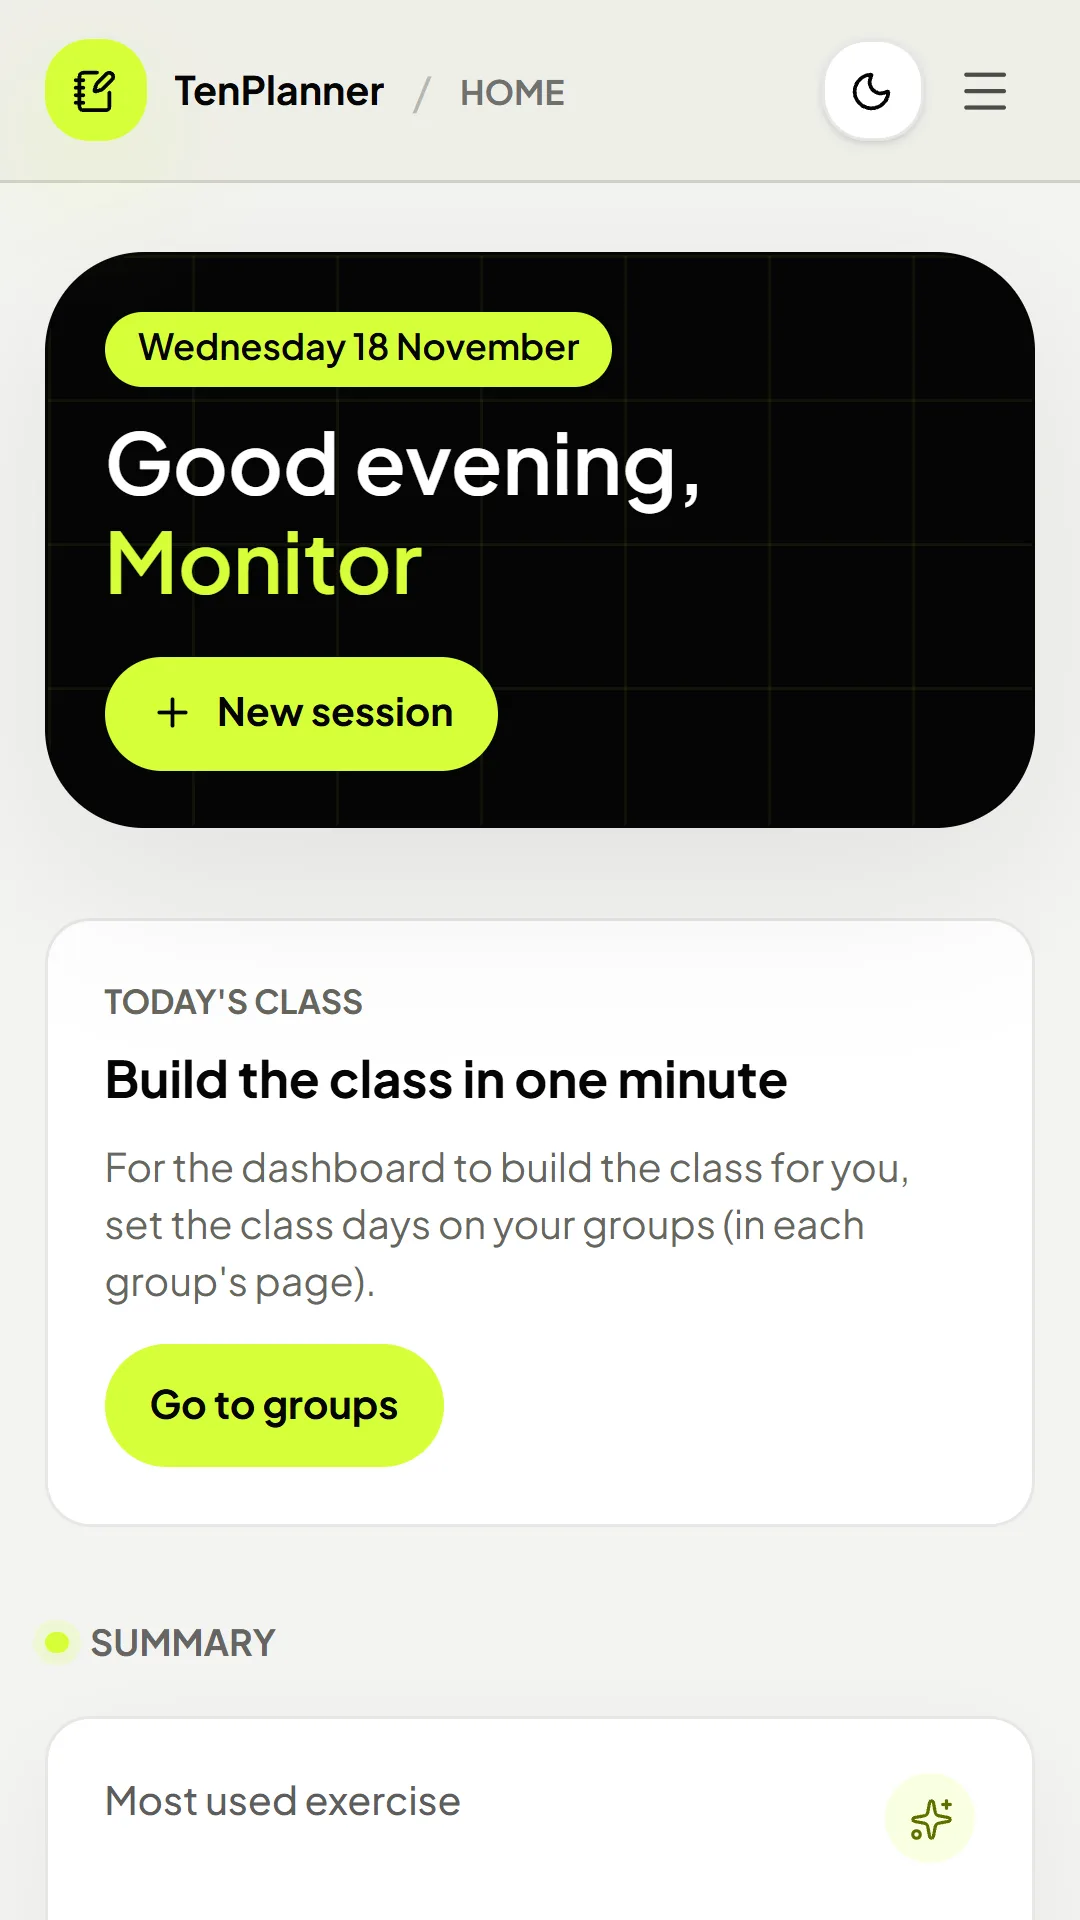
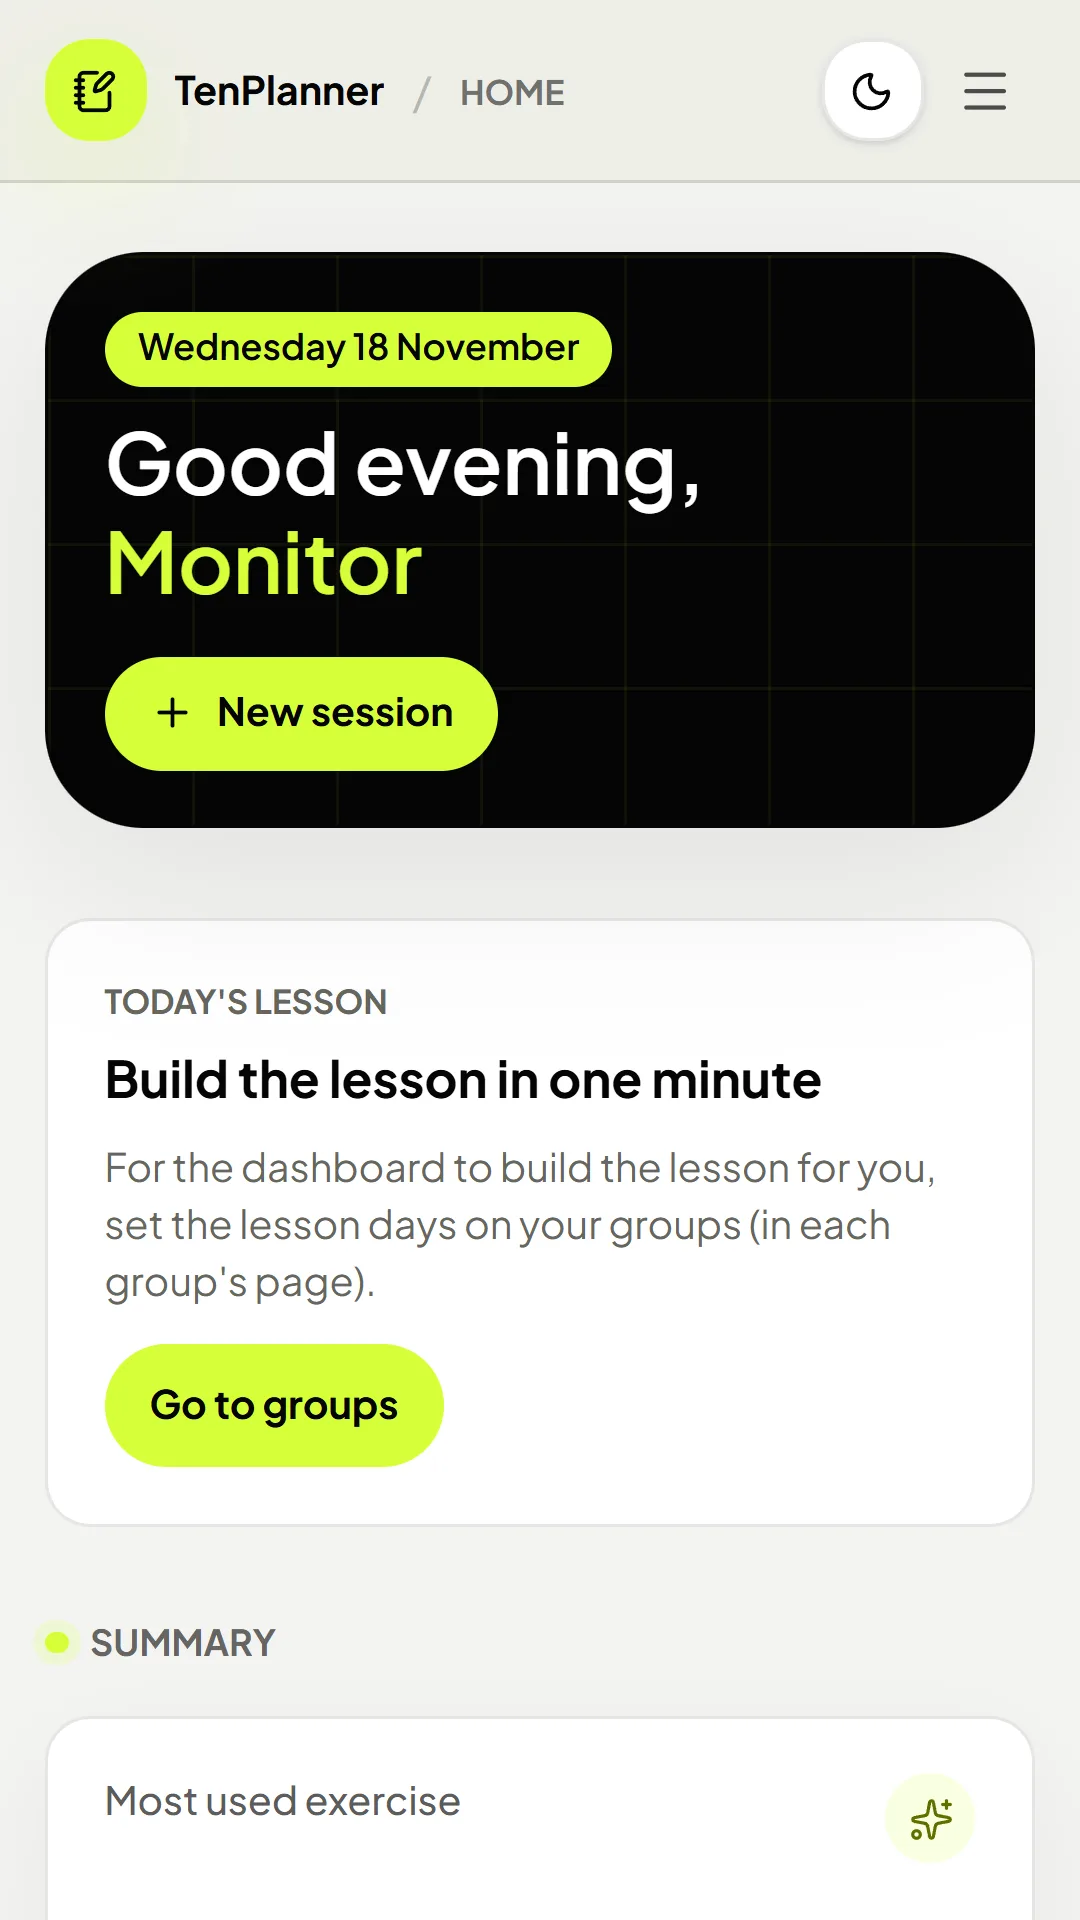
Inglés: "lesson/lessons" en lugar de "class/classes"
En enseñanza de tenis lo natural en inglés es "lesson". Cambiado en todos
los textos en inglés (portada, menú, pantallas, términos) y rehecha la
captura del panel de la portada.

Changed region(s): [[0.2139, 0.5312, 0.8556, 0.6562], [0.2444, 0.5, 0.4278, 0.5938]]

diff --git a/lib/landing-screens.ts b/lib/landing-screens.ts
@@ -62,7 +62,7 @@ export const LANDING_SCREENS_EN: LandingScreen[] = [
   },
   {
     src: "/landing/app/en/dashboard.webp",
-    alt: "Coach dashboard with the next class and a summary",
+    alt: "Coach dashboard with the next lesson and a summary",
     label: "Your day at a glance",
   },
 ];

diff --git a/lib/work-mode-labels.ts b/lib/work-mode-labels.ts
@@ -30,7 +30,7 @@ export function workModeOwner(mode: WorkMode): string {
 
 const SECTION_EN: Record<string, string> = {
   Calendario: "Calendar",
-  Clases: "Classes",
+  Clases: "Lessons",
   Ejercicios: "Exercises",
   Grupos: "Groups",
   Objetivos: "Goals",
